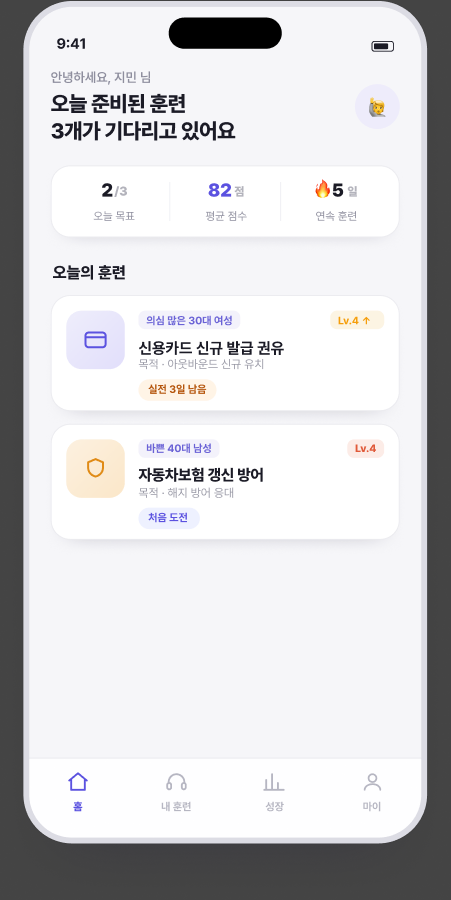
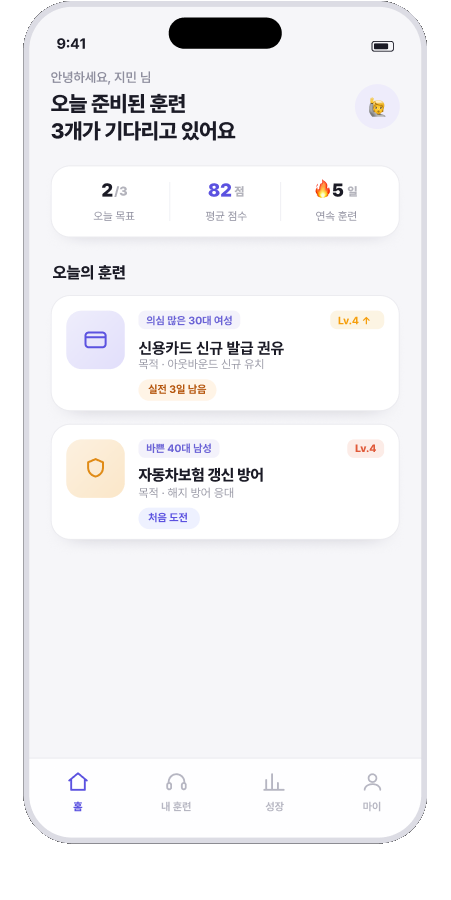
Polish: blue accent, honest data framing, remove middot, add learnings, clean app shots
- Accent purple -> blue (matches product primary)
- Call analysis reframed honestly (requested + interpreted, not self-run)
- Remove middots from sub-texts; POC marked complete
- Clarify problem statement; add securities-domain context + learnings to cases
- Whiten dark canvas behind app screenshots

Changed region(s): [[0.0, 0.0, 1.0, 1.0]]

diff --git a/public/ux.html b/public/ux.html
@@ -12,8 +12,8 @@
     --faint: #8a8a9a;
     --line: #e7e7ef;
     --card: #f7f7fb;
-    --accent: #6d4aff;
-    --accent-soft: #efeaff;
+    --accent: #2b6eff;
+    --accent-soft: #e9f0ff;
     --ok: #17a673;
     --bad: #e0533d;
     --maxw: 900px;
@@ -160,7 +160,7 @@
   <div class="wrap">
     <div class="eyebrow">Service Planning Portfolio</div>
     <h1>CHO EUN YOUNG<br>조은영</h1>
-    <div class="role">웹 · 서비스 기획자<span>Frontend Developer 출신 · 개발을 무기로</span></div>
+    <div class="role">웹/서비스 기획자<span>Frontend Developer 출신, 개발을 무기로</span></div>
     <p class="tagline">복잡한 업무를 사용자 흐름으로 구조화하고,<br>데이터로 문제를 정의해 실제 서비스로 만듭니다.</p>
     <div class="contact">
       <span><b>Email</b> choeunyoung224@gmail.com</span>
@@ -186,7 +186,7 @@
       <div class="strength">
         <div class="num">01</div>
         <h3>문제를 정의하는 기획</h3>
-        <p>데이터와 리서치로 진짜 문제를 찾고 우선순위를 세웁니다. 실제 상담 3.6만 콜 분석이 그 예입니다.</p>
+        <p>데이터와 리서치로 진짜 문제를 찾고 우선순위를 세웁니다. 실제 상담 3.6만 콜 데이터로 문제를 정의한 것이 그 예입니다.</p>
       </div>
       <div class="strength">
         <div class="num">02</div>
@@ -210,24 +210,24 @@
       <div class="eyebrow" style="margin:0">Case Study</div>
     </div>
     <h2>AI 콜센터 상담사 트레이닝 서비스</h2>
-    <p class="lead">상담사가 AI 가상 고객과 롤플레잉하며 스스로 훈련하는 게임형 트레이닝 서비스. 관리자는 관리하지 않고, 상담사는 게임처럼 플레이합니다.</p>
+    <p class="lead">상담사가 AI 가상 고객과 롤플레잉하며 스스로 훈련하는 게임형 트레이닝 서비스. 관리자의 운영 부담은 줄이고, 상담사는 게임처럼 스스로 훈련합니다.</p>
     <div class="tags">
       <span class="tag">서비스 기획</span><span class="tag">프로덕트 재설계</span>
       <span class="tag">게임화</span><span class="tag">데이터 기반 기획</span><span class="tag">AI 서비스</span>
     </div>
-    <div class="meta">역할 · 서비스 기획과 UX 설계 단독 (앱, 서버 개발자 협업) &nbsp;|&nbsp; 0→1 기획 · 사내 POC (진행 중)</div>
+    <div class="meta">역할: 서비스 기획과 UX 설계 단독 (앱, 서버 개발자 협업) &nbsp;|&nbsp; 0→1 기획, 사내 POC 완료</div>
 
     <div class="flow">
       <div class="flow-step">
         <div class="k">Problem</div>
         <h3>AI 고객의 반응이 실제 고객과 달랐다</h3>
-        <p>AI 고객이 매번 완성된 문장으로 답해, 상담사가 실제 통화 상황을 경험하기 어려웠습니다.</p>
+        <p>AI 고객이 매번 완결된 긴 문장으로 대답해서, 짧게 반응하는 실제 고객과 달라 상담사가 실전 감각을 익히기 어려웠습니다.</p>
       </div>
       <div class="flow-arrow">↓</div>
       <div class="flow-step">
         <div class="k">Research</div>
-        <h3>실녹취 3.6만 콜 분석</h3>
-        <p>실제 상담 통화 데이터를 읽기 전용으로 집계해 고객 발화 패턴을 정량 분석했습니다.</p>
+        <h3>실녹취 3.6만 콜 데이터 분석</h3>
+        <p>데이터 검증이 필요하다고 판단해 실제 상담 통화 데이터 분석을 요청하고, 그 결과에서 고객 발화 패턴을 해석해 문제를 정의했습니다.</p>
         <div class="stat-row">
           <div class="stat"><div class="v">36,360</div><div class="l">분석 통화</div></div>
           <div class="stat"><div class="v">183만+</div><div class="l">STT 세그먼트</div></div>
@@ -271,7 +271,7 @@
     </div>
 
     <div class="ba-title" style="margin-top:34px">사용자 여정과 화면 흐름</div>
-    <figure class="wide"><img src="/ux-img/v2-app-journey.png" alt="상담사 앱 사용자 여정 화면 흐름"><figcaption class="cap">상담사 앱의 사용자 여정을 5단계(진입 → 선택 → 브리핑 → 통화·채점 → 결과)로 구조화하고, 실전과 연습 분기까지 화면 흐름을 직접 설계했습니다.</figcaption></figure>
+    <figure class="wide"><img src="/ux-img/v2-app-journey.png" alt="상담사 앱 사용자 여정 화면 흐름"><figcaption class="cap">상담사 앱의 사용자 여정을 5단계(진입 → 선택 → 브리핑 → 통화와 채점 → 결과)로 구조화하고, 실전과 연습 분기까지 화면 흐름을 직접 설계했습니다.</figcaption></figure>
 
     <div class="shots">
       <figure class="shot"><img src="/ux-img/v2-home.png" alt="게임형 홈"><figcaption class="cap">① 게임형 홈 — 오늘의 훈련, 연속 스트릭, 레벨</figcaption></figure>
@@ -284,7 +284,7 @@
     <figure class="wide" style="max-width:720px;margin-left:auto;margin-right:auto"><img src="/ux-img/v2-flow-core.png" alt="임시 비밀번호 발급 정책 흐름도"><figcaption class="cap" style="text-align:center">계정 발급부터 로그인 검증, 만료와 5회 잠금 예외까지, 화면 뒤의 로직과 정책을 직접 설계했습니다.</figcaption></figure>
 
     <div class="ba-title" style="margin-top:34px">결과와 배운점</div>
-    <p class="note">관리자가 매주 운영하지 않아도 상담사의 자율 훈련이 도는 구조를 사내 POC로 검증하고 있습니다. 예쁜 화면을 만드는 것을 넘어, 서비스가 계속 쓰이도록 루프와 정책을 설계하는 것이 기획의 핵심이라는 것을 체감한 프로젝트입니다.</p>
+    <p class="note">관리자가 매주 운영하지 않아도 상담사의 자율 훈련이 도는 구조를 사내 POC로 검증했습니다. 예쁜 화면을 만드는 것을 넘어, 서비스가 계속 쓰이도록 루프와 정책을 설계하는 것이 기획의 핵심이라는 것을 체감한 프로젝트입니다.</p>
   </div>
 </section>
 
@@ -296,12 +296,12 @@
       <div class="eyebrow" style="margin:0">Case Study</div>
     </div>
     <h2>KB증권 직원 업무 단말 개선</h2>
-    <p class="lead">증권사 직원이 매일 사용하는 통합 업무 단말(HTS 환경)을 재구축하며 화면과 업무 흐름을 개선했습니다.</p>
+    <p class="lead">증권사 직원이 시세, 주문, 계좌를 빠르게 오가며 처리하는 통합 업무 단말(HTS 환경)을 재구축하며 화면과 업무 흐름을 개선했습니다. 잘못 누른 화면 하나가 주문 실수로 이어질 수 있는, 정확성과 속도가 모두 중요한 환경이었습니다.</p>
     <div class="tags">
       <span class="tag">업무 프로세스 기획</span><span class="tag">AS-IS 분석</span>
       <span class="tag">업무 플로우 개선</span><span class="tag">금융 도메인</span>
     </div>
-    <div class="meta">역할 · 화면 설계 및 업무 흐름 개선 기획 &nbsp;|&nbsp; 동양시스템즈 (2022 – 2024)</div>
+    <div class="meta">역할: 화면 설계 및 업무 흐름 개선 기획 &nbsp;|&nbsp; 동양시스템즈 (2022 – 2024)</div>
 
     <div class="prr">
       <div class="row"><div class="lab">Problem</div><p>기존 업무 화면은 기능과 정보가 여러 곳에 분산되어 있어, 사용자가 업무 흐름을 한눈에 따라가기 어려웠습니다.</p></div>
@@ -341,6 +341,8 @@
       </div>
     </div>
     <p class="ba-note">* 실제 화면이 아닌 구조 개념도입니다.</p>
+    <div class="ba-title" style="margin-top:26px">배운점</div>
+    <p class="note">금융처럼 실수 비용이 큰 도메인에서는, 화면을 단순하게 만드는 것 자체가 리스크를 줄이는 기획이라는 것을 배웠습니다.</p>
   </div>
 </section>
 
@@ -352,12 +354,12 @@
       <div class="eyebrow" style="margin:0">Case Study</div>
     </div>
     <h2>FS-DS 사내 디자인 시스템</h2>
-    <p class="lead">여러 부서가 공용으로 쓰는 웹 서비스 UI 표준을 단독으로 기획·구축해, 팀 전체가 일관된 화면을 만들도록 지원했습니다.</p>
+    <p class="lead">여러 부서가 공용으로 쓰는 웹 서비스 UI 표준을 단독으로 기획하고 구축해, 팀 전체가 일관된 화면을 만들도록 지원했습니다.</p>
     <div class="tags">
-      <span class="tag">표준 · 프로세스 기획</span><span class="tag">디자인 토큰</span>
+      <span class="tag">프로세스 표준화</span><span class="tag">디자인 토큰</span>
       <span class="tag">컴포넌트 설계</span><span class="tag">다직군 협업</span>
     </div>
-    <div class="meta">역할 · 디자인 시스템 기획, 구축, 운영 단독 &nbsp;|&nbsp; 한일네트웍스 (2025 – 현재)</div>
+    <div class="meta">역할: 디자인 시스템 기획, 구축, 운영 단독 &nbsp;|&nbsp; 한일네트웍스 (2025 – 현재)</div>
 
     <div class="prr">
       <div class="row"><div class="lab">Problem</div><p>프로젝트마다 버튼, 입력창, 모달을 매번 새로 만들어 화면이 제각각이었고, 디자이너와 개발자가 같은 논의를 반복했습니다.</p></div>
@@ -376,13 +378,15 @@
       <figure class="shot" style="width:auto;max-width:480px"><img src="/ux-img/storybook-alert.png" alt="Storybook Alert 컴포넌트"><figcaption class="cap">Storybook — 컴포넌트 문서 (코드 복사 포함)</figcaption></figure>
     </div>
     <p class="note">기획을 코드로 구현하고 운영까지 해봤기에, 개발 조직과 같은 언어로 대화하며 기획을 실제 제품으로 만들어낼 수 있습니다. (번들 최적화 111MB→3.3MB 등 엔지니어링 성과 포함)</p>
+    <div class="ba-title" style="margin-top:26px">배운점</div>
+    <p class="note">혼자 잘 만드는 것보다, 여러 부서가 실제로 쓰게 만드는 도입과 운영이 더 어렵고 중요하다는 것을 배웠습니다. 표준은 구축이 아니라 합의로 완성됩니다.</p>
   </div>
 </section>
 
 <footer class="foot">
   <div class="wrap">
     <div class="brand">Service Planning Portfolio</div>
-    <div class="n">CHO EUN YOUNG · 조은영 &nbsp;|&nbsp; choeunyoung224@gmail.com</div>
+    <div class="n">CHO EUN YOUNG, 조은영 &nbsp;|&nbsp; choeunyoung224@gmail.com</div>
   </div>
 </footer>
 
